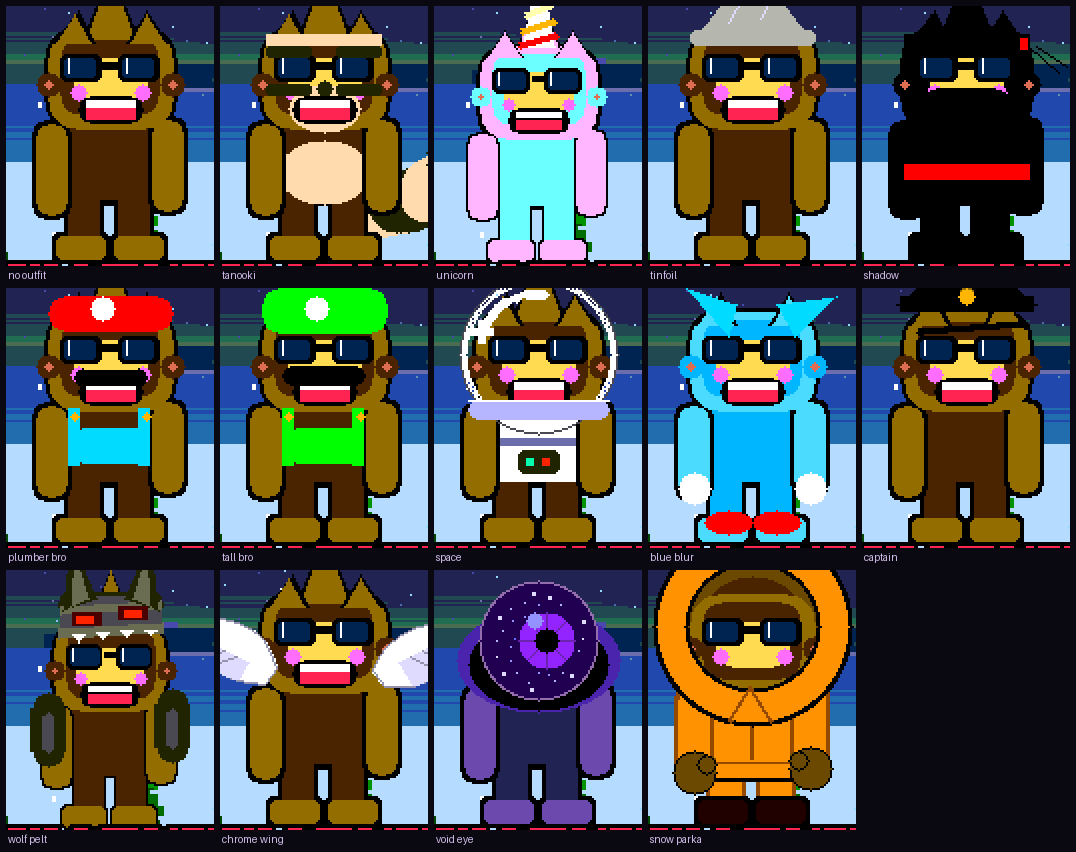
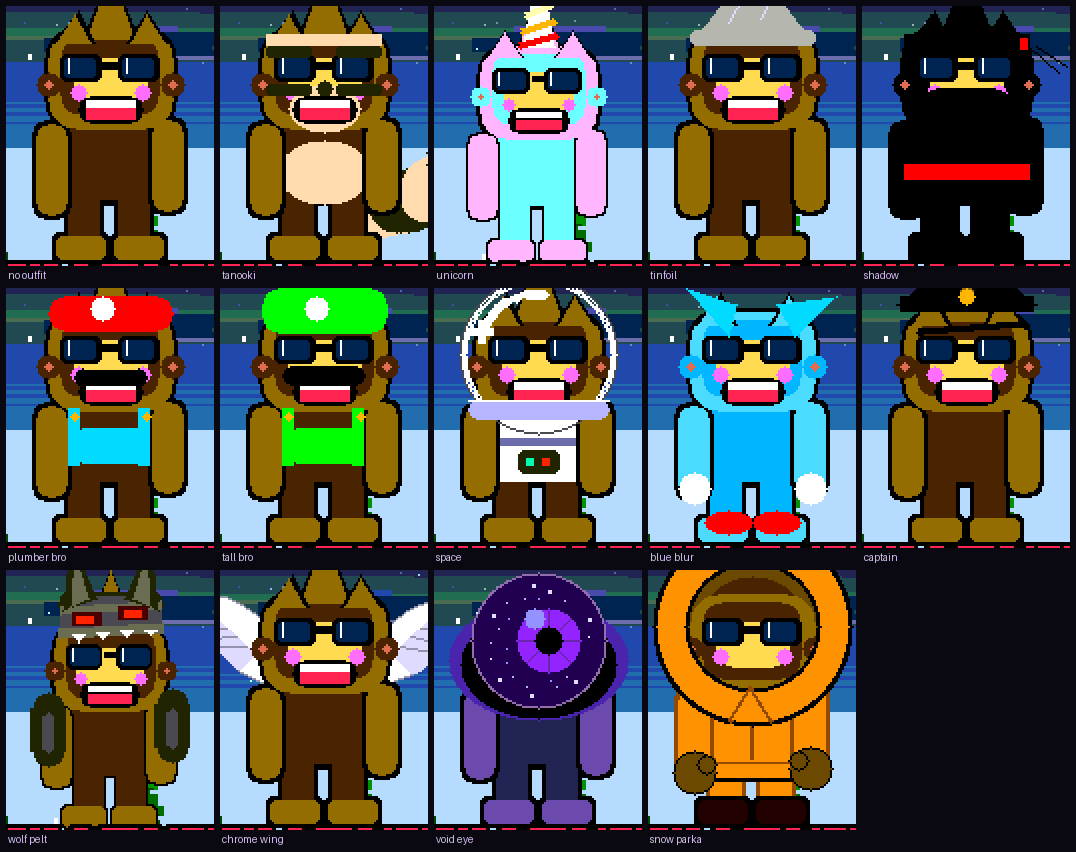
Grow the VOID EYE sphere, and balance the counter rows
Both are the title bar's removal cashing out, and both were measured off
rendered emulator frames rather than judged by eye.

VOID EYE's radius was S(14), a number picked while the bar owned the top
sixteen rows: it had to read big without asking for headroom. With the bar
gone, every other costume's silhouette tops out around row 8 -- that is
Squachy's own crest, not the costume -- and this one stopped at row 28.
S(16) spends some of that. Not more: at S(17) the sphere outgrows its own
socket and the violet ring stops reading as something the eye is set in.

Worth recording for the next time this comes up, since it is the real
limit on making him bigger generally: his WAVING ARM reaches row 4 in
every costume. The freed rows are already spent by his crest and his wave,
so growing the whole character is worth about 3% before the hand clips off
the top. Growing a costume's own artwork, where that costume has room, is
the version that fits.

The counter rows sat 7px under the headline and 13px above the buttons,
hugging the text above them. Three pixels lower splits the slack 10/10.
Applied only to the rows, not to countersTop, which is the floor the
headline, Squachy, the pet and the background repaint all key off.

Gallery regenerated, so the VOID EYE panel matches what ships.

diff --git a/src/ui_clear.cpp b/src/ui_clear.cpp
@@ -117,6 +117,24 @@ void uiClearTick(TFT_eSPI& t, uint32_t now, const DetectionEngine& eng, bool adv
     const int lineH          = 14;
     const int countersTop    = bar.y - counterRows * lineH - 6;
     const int countersBottom = bar.y - 4;
+    // The counter rows alone sit 3px lower than countersTop, and nothing
+    // else does. Measured off a rendered landscape frame: the headline's
+    // ink ended at row 172, the two counter rows ran 180-186 and 194-200,
+    // and the button bar started at 214 -- so the block sat 7px under the
+    // headline and 13px above the buttons, hugging the text above it. The
+    // 20px of slack splits 10/10 with the rows 3px lower.
+    //
+    // Deliberately NOT folded into countersTop, which would look like the
+    // tidier fix. That value is the floor of everything above it: the
+    // headline is bottom-aligned to it, Squachy sizes himself against it,
+    // the pet takes it as its band, and the background repaints to it.
+    // Moving it would slide the headline down with the rows (leaving the
+    // gap exactly as lopsided as before) and hand Squachy three more
+    // pixels of height he did not ask for.
+    //
+    // Safe in portrait too, where the block is four rows rather than two:
+    // the last row then ends at bar.y - 10, still clear of countersBottom.
+    const int counterTextTop = countersTop + 3;
 
     // statusH: height of the ALL CLEAR / DETECTIONS LOGGED text row,
     // sized to fit the Bangers MD font's glyph box (ascent 27 +
@@ -291,7 +309,7 @@ void uiClearTick(TFT_eSPI& t, uint32_t now, const DetectionEngine& eng, bool adv
     uint8_t start = 0;
     for (uint8_t row = 0; row < counterRows; row++) {
         uint8_t n = base + (row < remainder ? 1 : 0);
-        drawCounterLine(t, w, countersTop + row * lineH, eng, ALL_COUNTER_TYPES + start, n);
+        drawCounterLine(t, w, counterTextTop + row * lineH, eng, ALL_COUNTER_TYPES + start, n);
         start += n;
     }
 

diff --git a/src/squachy.cpp b/src/squachy.cpp
@@ -1949,8 +1949,26 @@ static void drawOutfit(TFT_eSPI& t, int cx2, int hy, uint32_t now, Mood m, float
             break;
         }
         case OutfitId::VOIDEYE: {
-            const int er = S(14);              // his head box is 30x24, so this
-            const int ey = hy + S(11);         // reads big without needing headroom
+            // 16, not the 14 this shipped with. That number was chosen while
+            // the title bar still owned the top sixteen rows of the screen, so
+            // it was sized to read big WITHOUT asking for headroom -- his head
+            // box is only 30x24 and anything taller went behind the bar.
+            //
+            // Measured off rendered frames now that the bar is gone: every
+            // other costume's silhouette tops out around row 8 (that is his
+            // own crest, not the costume), and this one stopped at row 28.
+            // Twenty rows of empty sky that nothing else was using.
+            //
+            // 16 and not more: at 17 the sphere starts to outgrow its own
+            // socket, and the violet ring that reads as an eye SET IN
+            // something becomes a crescent hanging under a loose ball.
+            //
+            // Only the radius moves. ey stays at S(11) so the sphere grows
+            // around its centre instead of climbing out of the socket, and
+            // every socket ellipse below is expressed in er, so they grow
+            // with it and the proportions hold.
+            const int er = S(16);
+            const int ey = hy + S(11);
             // SOCKET, drawn BEHIND the sphere so it shows only as a violet ring
             // at the sides and under the chin. Over the top it would cover the
             // sky, which is the part of this costume worth having.
